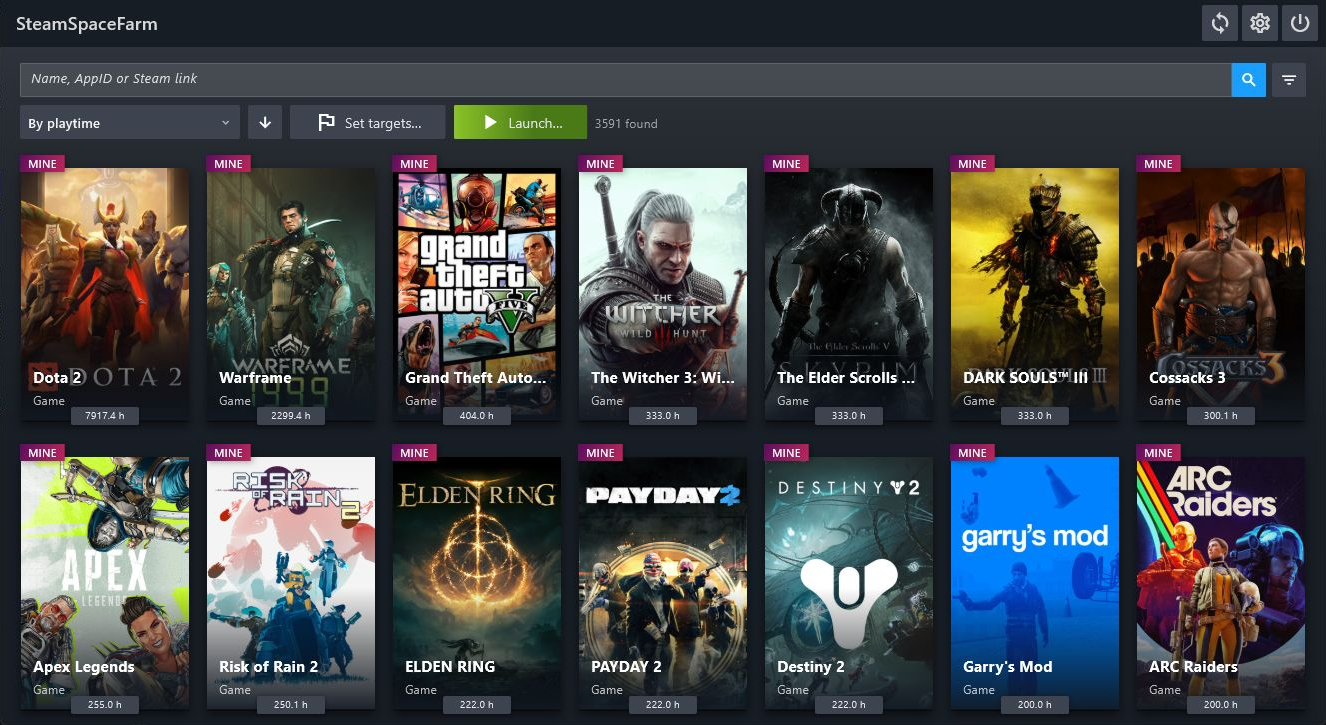
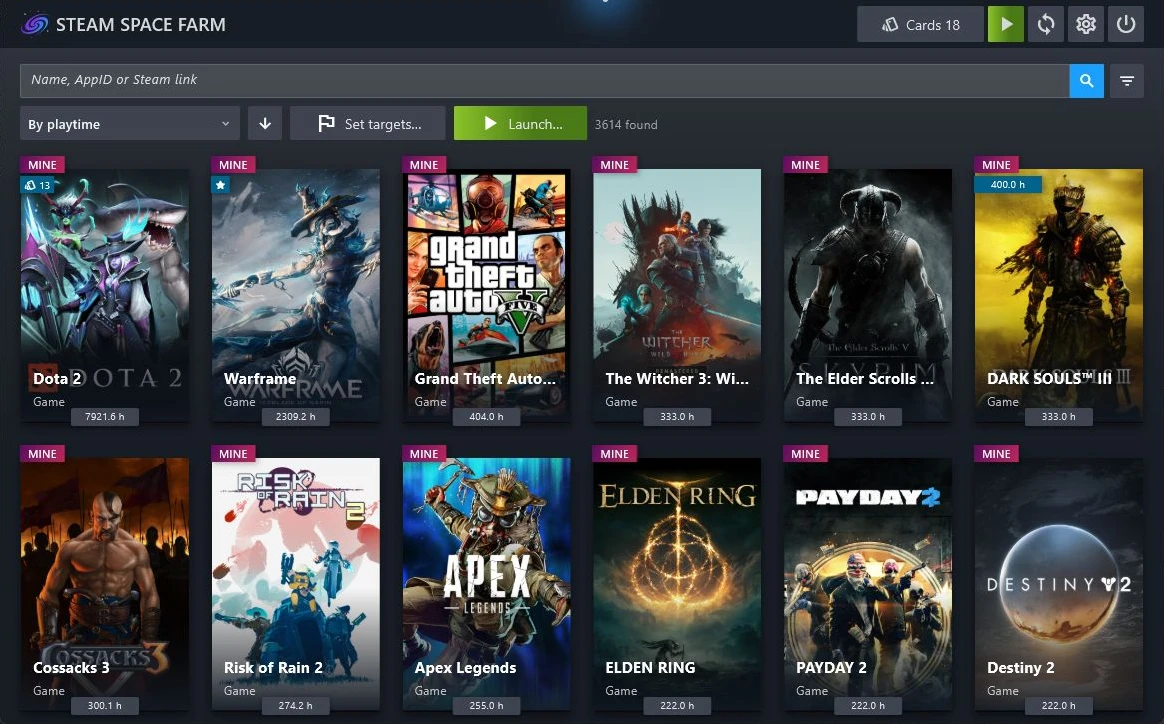
Refresh project screenshots and descriptions, update PaperMod

diff --git a/layouts/projects/single.html b/layouts/projects/single.html
@@ -11,7 +11,7 @@
     {{ range . }}<li>{{ . }}</li>{{ end }}
   </ul>
   {{ end }}
-  {{ if or $project.github $project.siteLink }}
+  {{ if or $project.github $project.siteLink $project.links }}
   <div class="project-links">
     {{ with $project.github }}<a href="{{ . }}" target="_blank" rel="noopener noreferrer">GitHub ↗</a>{{ end }}
     {{ with $project.siteLink }}
@@ -23,9 +23,12 @@
       {{ else if in . "/releases" }}{{ $label = i18n "downloads" }}{{ end }}
       <a href="{{ . }}" target="_blank" rel="noopener noreferrer">{{ $label }} ↗</a>
     {{ end }}
+    {{ range $project.links }}
+      <a href="{{ .url }}" target="_blank" rel="noopener noreferrer">{{ .label }} ↗</a>
+    {{ end }}
   </div>
   {{ end }}
 </header>
-{{ with .Content }}<div class="post-content">{{ . }}</div>{{ end }}
+{{ with .Content }}<div class="post-content md-content">{{ . }}</div>{{ end }}
 {{ partial "projects/gallery.html" (dict "page" . "screenshots" $project.screenshots) }}
 {{ end }}

diff --git a/layouts/projects/list.html b/layouts/projects/list.html
@@ -1,6 +1,6 @@
 {{ define "main" }}
 <header class="page-header"><h1>{{ .Title }}</h1></header>
-{{ with .Content }}<div class="post-content">{{ . }}</div>{{ end }}
+{{ with .Content }}<div class="post-content md-content">{{ . }}</div>{{ end }}
 <div class="projects-grid">
   {{ $projects := slice }}
   {{ range .RegularPages }}

diff --git a/content/projects/steam-space-farm.ru.md b/content/projects/steam-space-farm.ru.md
@@ -1,7 +1,11 @@
 ---
 title: "SteamSpaceFarm"
-description: "Управление библиотекой Steam и эмулируемыми игровыми сессиями с целями по времени, очередями запуска и поддержкой Steam Family."
+description: "Управление библиотекой Steam, фарм коллекционных карточек и достижение целей по игровому времени с автоматическими сессиями и поддержкой Steam Family."
 projectType: "Мультиплатформенное десктопное приложение"
 ---
 
-Просмотр и фильтрация библиотеки, настройка целей по игровому времени и управление очередями сессий через клиент Steam. Приложение поддерживает Windows, Linux и macOS, объединяя интерфейс на Flutter и вспомогательные .NET-процессы для интеграции со Steam.
+Приложение для Windows, macOS и Linux объединяет собственные игры и библиотеку Steam Family в одном каталоге. Поиск по названию, AppID или ссылке Steam, фильтры, сортировка и избранное помогают быстро находить нужные игры.
+
+Фарм коллекционных карточек в трёх режимах, запуск до 31 приложения одновременно или по очереди, цели по игровому времени с автоматической остановкой. Фарм карточек получает приоритет, после него возобновляются сессии для накопления часов. Сессии работают через клиент Steam или независимо от него через SteamKit.
+
+Вход по QR-коду или со Steam Guard, четыре варианта оформления карточек игр и интерфейс на русском, английском, испанском и упрощённом китайском. Интерфейс на Flutter работает со вспомогательными .NET-процессами для интеграции со Steam.

diff --git a/content/projects/steam-space-farm.md b/content/projects/steam-space-farm.md
@@ -1,7 +1,11 @@
 ---
 title: "SteamSpaceFarm"
-description: "Manage your Steam library and simulated game sessions with playtime targets, queues, and Steam Family support."
+description: "Manage your Steam library, farm trading cards, and reach playtime goals with automated sessions and Steam Family support."
 projectType: "Multiplatform desktop app"
 ---
 
-Browse and filter your library, set playtime goals, and manage session queues through the Steam client. The app supports Windows, Linux, and macOS, combining a Flutter interface with .NET helpers for Steam integration.
+A desktop app for Windows, macOS, and Linux that brings your own games and Steam Family library into one catalog. Search by name, AppID, or Steam link, filter and sort games, and keep favorites close at hand.
+
+Farm trading cards in three modes, run up to 31 apps at once or use a sequential queue, and set playtime targets with automatic stopping. Card farming takes priority; queued playtime sessions resume afterwards. Sessions can run through the Steam client or independently via SteamKit.
+
+Sign in with a QR code or Steam Guard, choose from four library card styles, and switch between English, Russian, Spanish, and Simplified Chinese. The app combines a Flutter interface with .NET helpers for Steam integration.

diff --git a/content/projects/collectors-shop.ru.md b/content/projects/collectors-shop.ru.md
@@ -1,7 +1,11 @@
 ---
 title: "Collectors shop"
-description: "Мобильный магазин для просмотра коллекционных предметов Dota 2."
-projectType: "Мобильное приложение"
+description: "Магазин коллекционных наборов и скинов Dota 2 на Android, iOS и в Telegram: каталог с поиском и оформление заказов."
+projectType: "Мобильное приложение · Telegram Mini App"
 ---
 
-![Collectors shop](./../../../collectors-shop.webp)
+Наборы из Collector's Cache и других коллекций Dota 2 с подробными карточками предметов и добавлением в корзину. В приложении доступны поиск и фильтры каталога, промокоды, оформление покупок и отслеживание заказов.
+
+Доступно в Google Play и App Store, а также в формате Telegram Mini App — прямо в мессенджере, без отдельной установки.
+
+Приложение разработано на Flutter и Dart с управлением состоянием через BLoC.

diff --git a/content/projects/collectors-shop.md b/content/projects/collectors-shop.md
@@ -1,7 +1,11 @@
 ---
 title: "Collectors shop"
-description: "A mobile storefront for browsing collectible Dota 2 items."
-projectType: "Mobile app"
+description: "A store for collectible Dota 2 sets and skins on Android, iOS, and Telegram, with a searchable catalog and in-app ordering."
+projectType: "Mobile app · Telegram Mini App"
 ---
 
-![Collectors shop](./../../collectors-shop.webp)
+Browse sets from Collector's Cache and other Dota 2 collections, explore item details, and add your favorites to the cart. The app brings catalog search and filters, promo codes, checkout, and order tracking together in one place.
+
+Available on Google Play and the App Store, and as a Telegram Mini App that opens directly in the messenger without a separate installation.
+
+Built with Flutter and Dart, using BLoC for state management.
